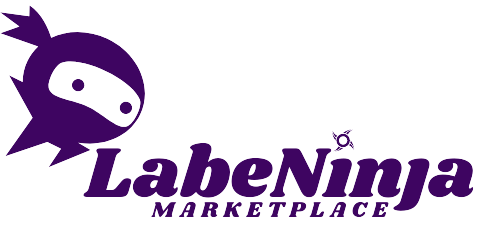
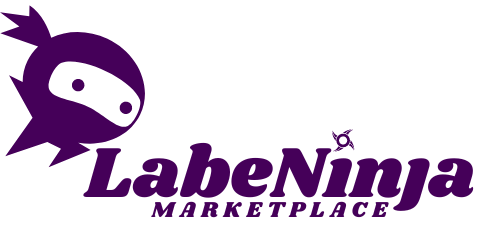
Edição styled

diff --git a/src/pages/HomePage/HomePage.js b/src/pages/HomePage/HomePage.js
@@ -2,27 +2,132 @@ import React from 'react';
 import styled from "styled-components";
 import { ChakraProvider } from '@chakra-ui/react'
 import { Button } from '@chakra-ui/react'
+import { theme } from "../../constants/theme";
+import Ninja from '../../assets/img/ninja2.png'
+
 
 const Botoes = styled.section`
     display: flex;
-    justify-content: space-evenly;
-    margin-top: 30px;
+    grid-template-rows: 1fr 1fr;
+    grid-row: 1/2;
+    flex-direction: column;
+    align-self: center;
+    justify-self: center;
+    margin-top: 50px;
+    padding-bottom: 30px;
+    
+    h3 {
+        font-size: 20px;
+        font-weight: bold;
 
+    }
+
+    button {
+        display: flex;
+        width: 200px;
+	    height: 40px;
+        margin: 20px auto;
+        align-items: center;
+        justify-content: center;
+        font-size: 20px;
+        color: white;
+    }
+`
+const Section1 =styled.section`
+    width: 100vw;
+    height: 400px;
+    border-top: 1px solid lightgrey;
+    margin: 0 auto;
+   justify-content: center;
+   font-size: 20px;
+   text-align: center;
+   padding-top: 30px;
+   `
+const Section2 =styled.section`
+    width: 100vw;
+    height: 400px;
+    background-color: #ff784f;
+    color: white;
+    border-top: 1px solid lightgrey;
+    margin: 0 auto;
+   justify-content: center;
+   font-size: 20px;
+   text-align: center;
+   padding-top: 30px;
+`
+const Section3 =styled.section`
+    width: 100vw;
+    height: 400px;
+    border-top: 1px solid lightgrey;
+    margin: 0 auto;
+   justify-content: center;
+   font-size: 20px;
+   text-align: center;
+   padding-top: 30px;
+`
+const Section4 =styled.section`
+    width: 100vw;
+    height: 400px;
+    border-top: 1px solid lightgrey;
+    margin: 0 auto;
+   justify-content: center;
+   font-size: 20px;
+   text-align: center;
+   padding-top: 30px;
+`
+
+const Section0 = styled.section`
+    display: grid;
+    grid-template-columns: 1fr 1fr;
+	grid-template-rows: 1fr;
+    padding-bottom: 30px;
+    padding-top: 140px;
+
+    h3 {
+        display: grid;
+        grid-row: 1/2;
+        justify-self: center;
+        align-self: center;
+        color: #3e3740;
+    }
+    img {
+        display: grid;
+        grid-column: 2/3;
+        justify-self: center;
+        align-self: center;
+        width:500px;
+        
+    }
 `
 export default class HomePage extends React.Component {
 render(){
 return(
     <div>
-        <Botoes>
-            <Button colorScheme='purple' onClick = {this.props.goToFindJob}>Contratar um ninja</Button>
-            <Button colorScheme='purple' onClick = {this.props.goToCreatedJob}>Seja um ninja</Button>
-        </Botoes>
-        <section>
+        <Section0>
+            <img src={Ninja}/>
             
-
-        </section>
-        <p>Home </p>
-
+            <Botoes>
+                <h3> Torne sua vida mais rapida e pratica </h3>
+                <h3>como um ninja</h3>
+                <ChakraProvider theme={theme}>
+                    <Button bg="brand.900" onClick = {this.props.goToFindJob}>Contrate um Ninja</Button>
+                    <Button bg="brand.900" onClick = {this.props.goToCreatedJob}>Seja um Ninja</Button>
+                </ChakraProvider>
+            </Botoes>
+        </Section0>
+        <Section1>
+            <h3>O que é a labeninja?</h3>
+        </Section1>
+        <Section2>
+            <h3>Como funciona</h3>
+        </Section2>
+        <Section3>
+            <h3>Parcerias Labeninja</h3>
+        </Section3>
+        <Section4>
+            <h3>Quem contratou</h3>
+        </Section4>
+        
     </div>
 )
 }

diff --git a/src/components/Footer.js b/src/components/Footer.js
@@ -1,10 +1,43 @@
 import React from "react";
 import styled from "styled-components";
+import { RiInstagramFill } from "react-icons/ri";  
+import { BsFacebook } from "react-icons/bs";
+import { BsTwitter } from "react-icons/bs";
+import { BsYoutube } from "react-icons/bs";
+
+
 
 const FooterContainer = styled.div`
-border: 1px solid black;
+background-color: #86778a;
+/* border: 1px solid lightgrey; */
 bottom: 0;
-position: fixed;
+/* position: fixed; */
+width: 100vw;
+padding: 30px 30px 30px 30px;
+display: flex;
+justify-content: space-around;
+/* color: ; */
+
+ul {
+  color: white;
+}
+
+h3 {
+  font-weight: bold;
+  font-size: 20px;
+  color: #450059;
+}
+
+img {
+  width: 20px;
+}
+`
+const RedesSociais = styled.div`
+    display: flex;
+    /* flex-direction: row; */
+    justify-content: space-between;
+    color: white;
+    font-size: 40px;
 `
 
 export default class Footer extends React.Component {
@@ -13,9 +46,30 @@ export default class Footer extends React.Component {
     return (
       <div>
         <FooterContainer>
-          <p>Serviços</p>
-          <p>Institucionais</p>
-          <p>Ícones de ir para redes sociais</p>
+          <ol>
+            <h3>Serviços</h3>
+            <ul>Assistência Técnica</ul>
+            <ul>Design e Tecnologia</ul>
+            <ul>Consultoria</ul>
+            <ul>Reformas</ul>
+          </ol>
+          <ol>
+            <h3>Institucional</h3>
+            <ul>Quem Somos</ul>
+            <ul>Trabalhe Conosco</ul>
+            <ul>Profissionais Verificados</ul>
+            <ul>Fale Conosco</ul>
+          </ol>
+          <div>
+            <h3>Redes sociais</h3>
+            <RedesSociais>
+              <RiInstagramFill/>
+              <BsFacebook/>
+              <BsTwitter/>
+              <BsYoutube/>
+            </RedesSociais>
+          </div>
+          <h3>Donwloads</h3>
         </FooterContainer>
       </div>
     );

diff --git a/src/components/Header.js b/src/components/Header.js
@@ -1,34 +1,49 @@
 import React from "react";
 import styled from "styled-components";
 import { ChakraProvider } from '@chakra-ui/react'
-import { Button, ButtonGroup } from '@chakra-ui/react'
-import LogoNinja from "../assets/img/labeninja.png"
+import { Button } from '@chakra-ui/react'
+import LogoNinja from "../assets/img/labe.png"
+import {AiOutlineShoppingCart} from "react-icons/ai";
+import { theme } from "../constants/theme";
+
 
 const HeaderContainer = styled.div`
 border: 1px solid lightgrey;
+background-color: #450059;
 display: flex;
+position: fixed;
+top:0;
+width: 100%;
 justify-content: space-between;
 align-items: center;
+padding: 10px 50px 10px 100px;
+z-index: 2;
 
 `
 const Img = styled.img`
-    width: 180px;
-    padding: 10px 0 10px 30px;
+    width: 250px;
+    padding: 0 0 0 30px;
 
 `
-
 const BotaoComMargem = styled(Button)`
     margin-right: 40px;
+    color: white;
+    display: flex;
+    border: 2px solid white;
+    /* justify-content: center; */
+    /* width: 200px; */
 `
 export default class Header extends React.Component {
 
   render() {
     return (
       <div>
-        <HeaderContainer>
-         <Img onClick = {() => this.props.handleHomePage()}src={LogoNinja}/>
-          <BotaoComMargem colorScheme='purple' onClick = {() => this.props.handleCartPage()}>Carrinho</BotaoComMargem>
-        </HeaderContainer>
+        <ChakraProvider theme={theme}>
+          <HeaderContainer>
+          <Img onClick = {() => this.props.handleHomePage()}src={LogoNinja}/>
+            <BotaoComMargem bg="brand.white" onClick = {() => this.props.handleCartPage()}>Área de Compras<AiOutlineShoppingCart/> </BotaoComMargem>
+          </HeaderContainer>
+        </ChakraProvider>
       </div>
     );
   }

diff --git a/src/constants/theme.js b/src/constants/theme.js
@@ -1,48 +1,13 @@
-import { extendTheme } from '@chakra-ui/react'
-import { StyleFunctionProps } from '@chakra-ui/theme-tools'
+import { extendTheme } from "@chakra-ui/react";
 
+export const theme = extendTheme({
+  colors: {
+    brand: {
+      100: "white ",
+      200: "#450059",
+      900: "#ff784f",
 
-export 
-
-const theme = extendTheme({
-  components: {
-    Button: {
-      // 1. We can update the base styles
-      baseStyle: {
-        fontWeight: 'bold', // Normally, it is "semibold"
-      },
-      // 2. We can add a new button size or extend existing
-      sizes: {
-        xl: {
-          h: '56px',
-          fontSize: 'lg',
-          px: '32px',
-        },
-      },
-      // 3. We can add a new visual variant
-      variants: {
-        'with-shadow': {
-          bg: 'red.400',
-          boxShadow: '0 0 2px 2px #efdfde',
-        },
-        // 4. We can override existing variants
-        solid: (props: StyleFunctionProps) => ({
-          bg: props.colorMode === 'dark' ? 'red.300' : 'red.500',
-        }),
-        // 5. We can add responsive variants
-        sm: {
-          bg: 'teal.500',
-          fontSize: 'md',
-        },
-      },
-      // 6. We can overwrite defaultProps
-      defaultProps: {
-        size: 'lg', // default is md
-        variant: 'sm', // default is solid
-        colorScheme: 'green', // default is gray
-      },
     },
   },
 })
 
-export default theme

diff --git a/src/App.js b/src/App.js
@@ -23,15 +23,13 @@ export default class App extends React.Component {
 
   handleCreateJobPage = () => {
     this.setState({changePage: 'CreatJobPage'})
-    console.log("Entrou");
-   
+       
   }
 
   handleFindJobPage = () => {
     this.setState({changePage: 'FindJobPage'});
-    console.log("Criou");
     
-  }
+ }
 
   handleCartPage = () => {
     this.setState({changePage: 'CartPage'})
